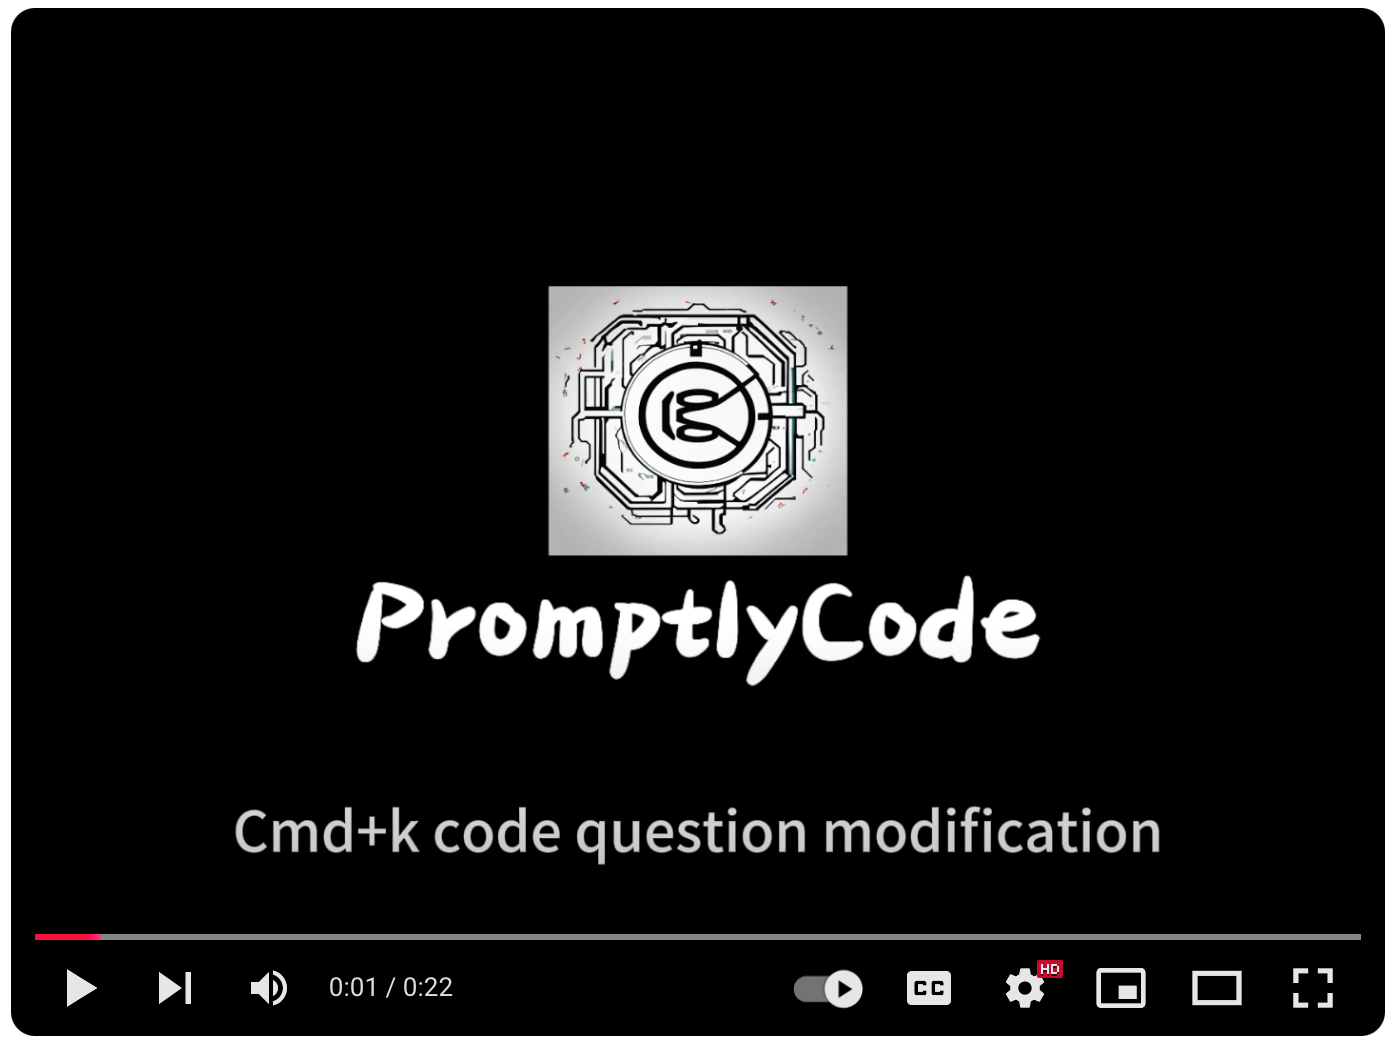
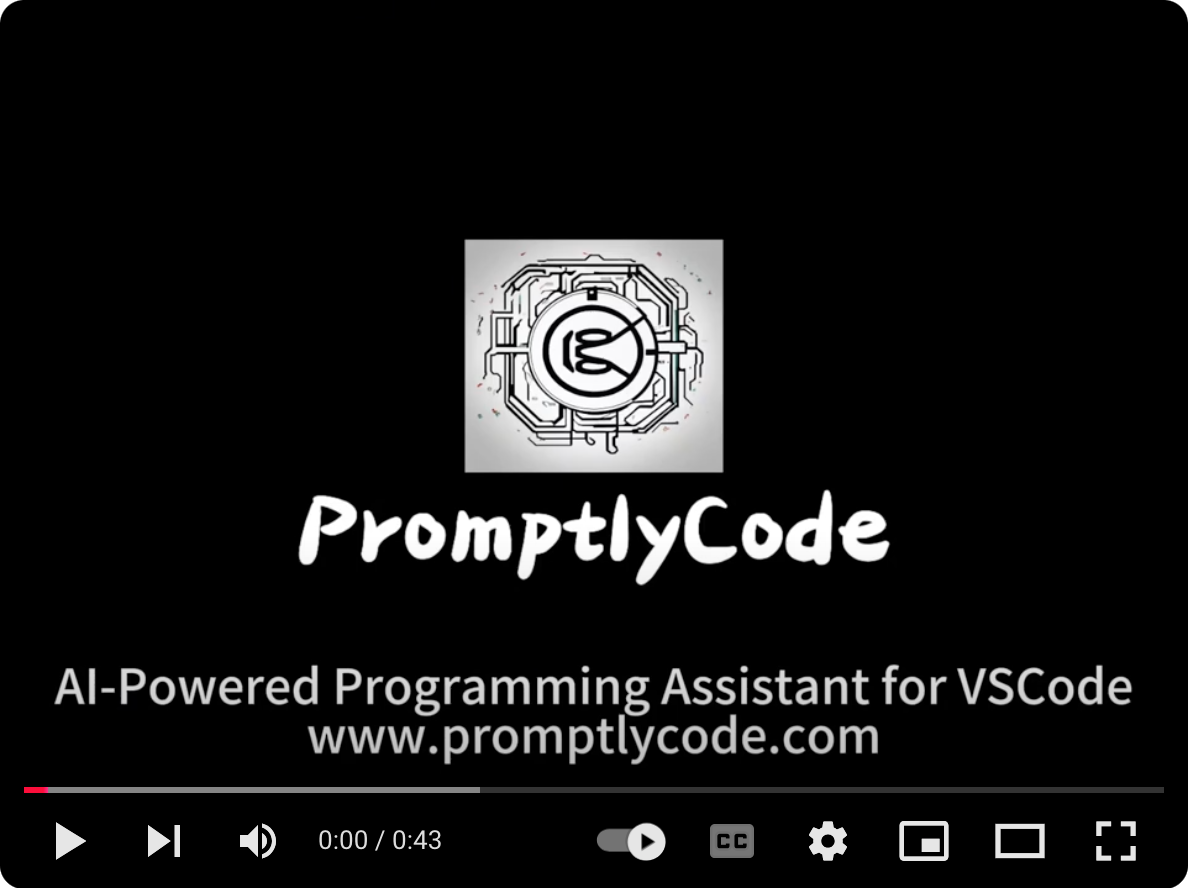
new youtube mp4

diff --git a/README.md b/README.md
@@ -1,7 +1,7 @@
 # [Promptly Code](http://www.promptlycode.com)
 * Promptly Code, AI automatic programming vscode extension, Inspired by [cursor](https://www.cursor.com/)
 
-[![Watch the video](./youtube_cover.png)](https://youtu.be/KdTh2FbjVyo)
+[![Watch the video](./youtube_cover.png)](https://youtu.be/pFg-tJSIFnI)
 
 ## Features
 
